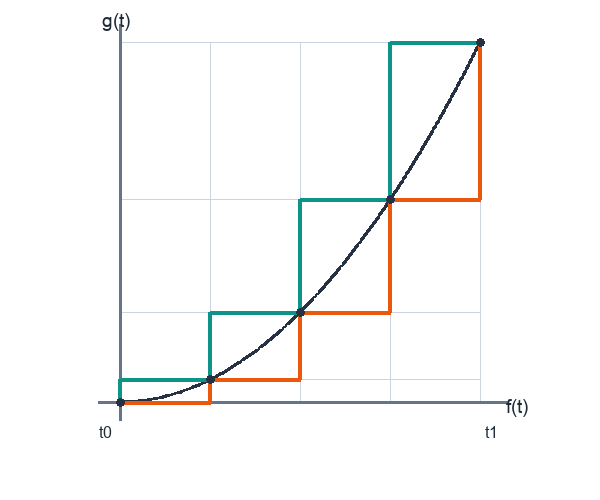
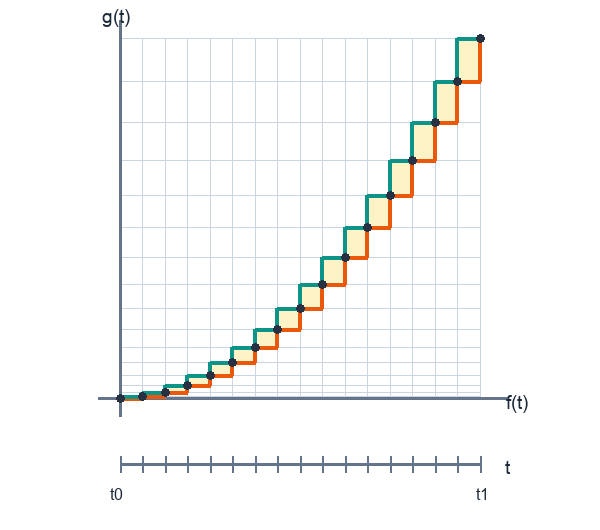
Clarify substitution and integration-by-parts subdivisions

diff --git a/scripts/generate_integration_by_parts_animation.py b/scripts/generate_integration_by_parts_animation.py
@@ -1,12 +1,12 @@
 #!/usr/bin/env python3
 """Render paired finite subdivisions for integration by parts.
 
-The parameter interval is the fixed rational interval [t0, t1].  The display
-uses an affine f and a quadratic g: equal divisions of t give equal f-steps
-and unequal g-steps.  The orange horizontal-first and teal vertical-first
-staircases are the two endpoint zigzags through the same samples
-(f(t_i), g(t_i)).  They meet at every sample as the common parameter
-subdivision is refined.  Every displayed sample is rational.
+The parameter interval is the fixed rational interval [t0, t1].  An affine
+f and a quadratic g make the common equal t-subdivision visible as equal
+f(t)-steps and unequal g(t)-steps.  The orange horizontal-first and teal
+vertical-first staircases pass through precisely the same samples
+(f(t_i), g(t_i)).  Their pale corner rectangles shrink under refinement;
+every displayed datum is rational.
 """
 
 from __future__ import annotations
@@ -22,11 +22,12 @@ ASSET_DIR = ROOT / "blueprint" / "src" / "assets"
 GIF_PATH = ASSET_DIR / "integration-by-parts-cell.gif"
 PNG_PATH = ASSET_DIR / "integration-by-parts-cell.png"
 
-WIDTH, HEIGHT = 600, 500
+WIDTH, HEIGHT = 600, 530
 # Both displayed coordinate ranges are [0, 1], so the f and g units are
 # square.  The nonuniformity in the picture comes only from g(t)=t^2.
 LEFT, RIGHT = 120, 480
-TOP, BASELINE = 42, 402
+TOP, BASELINE = 38, 398
+PARAMETER_LINE = 464
 WHITE = (255, 255, 255, 255)
 INK = (28, 41, 56, 255)
 AXIS = (100, 116, 139, 255)
@@ -34,6 +35,7 @@ GRID = (203, 213, 225, 255)
 CURVE = (38, 50, 68, 255)
 ORANGE = (234, 88, 12, 255)
 TEAL = (13, 148, 136, 255)
+CORNER = (254, 243, 199, 255)
 
 
 def font(size: int) -> ImageFont.FreeTypeFont | ImageFont.ImageFont:
@@ -97,8 +99,8 @@ def frame(subdivisions: int) -> Image.Image:
     f_values = [f(t) for t in parameters]
     g_values = [g(t) for t in parameters]
 
-    # Equal f-divisions are vertical; their g-images are intentionally uneven
-    # horizontal levels.  Neither is decorative: both come from the same t_i.
+    # Equal f(t)-divisions are vertical; their g(t)-images are intentionally
+    # uneven horizontal levels.  Both are the image of the same equal t_i mesh.
     for value in f_values:
         x = x_screen(value)
         draw.line((x, TOP, x, BASELINE), fill=GRID, width=1)
@@ -109,11 +111,31 @@ def frame(subdivisions: int) -> Image.Image:
     draw.line((LEFT - 22, BASELINE, RIGHT + 28, BASELINE), fill=AXIS, width=3)
     draw.line((LEFT, BASELINE + 18, LEFT, TOP - 18), fill=AXIS, width=3)
 
+    # This ruler is the source subdivision.  The plot itself is in the
+    # (f(t), g(t)) plane, so t is deliberately shown as a separate fixed
+    # interval rather than mislabeled as a coordinate axis.
+    draw.line((LEFT, PARAMETER_LINE, RIGHT, PARAMETER_LINE), fill=AXIS, width=3)
+    for t in parameters:
+        x = x_screen(normalized_parameter(t))
+        draw.line((x, PARAMETER_LINE - 8, x, PARAMETER_LINE + 8), fill=AXIS, width=2)
+
     curve = []
     for index in range(241):
         t = T0 + Fraction(index, 240) * (T1 - T0)
         curve.append((x_screen(f(t)), y_screen(g(t))))
     draw.line(curve, fill=CURVE, width=3, joint="curve")
+
+    # The rectangle between a horizontal-first and vertical-first step is the
+    # finite corner discrepancy.  It becomes small because both subdivisions
+    # are driven by the same increasingly fine parameter mesh.
+    for left_f, right_f, left_g, right_g in zip(
+        f_values, f_values[1:], g_values, g_values[1:]
+    ):
+        draw.rectangle(
+            (x_screen(left_f), y_screen(right_g),
+             x_screen(right_f), y_screen(left_g)),
+            fill=CORNER,
+        )
 
     lower = [(x_screen(f_values[0]), y_screen(g_values[0]))]
     upper = [(x_screen(f_values[0]), y_screen(g_values[0]))]
@@ -134,8 +156,9 @@ def frame(subdivisions: int) -> Image.Image:
         x, y = x_screen(fv), y_screen(gv)
         draw.ellipse((x - 4, y - 4, x + 4, y + 4), fill=CURVE)
 
-    draw.text((LEFT - 14, BASELINE + 30), "t0", font=SMALL, fill=INK, anchor="mm")
-    draw.text((RIGHT + 12, BASELINE + 30), "t1", font=SMALL, fill=INK, anchor="mm")
+    draw.text((LEFT - 3, PARAMETER_LINE + 30), "t0", font=SMALL, fill=INK, anchor="mm")
+    draw.text((RIGHT + 3, PARAMETER_LINE + 30), "t1", font=SMALL, fill=INK, anchor="mm")
+    draw.text((RIGHT + 25, PARAMETER_LINE + 3), "t", font=LABEL, fill=INK, anchor="lm")
     draw.text((RIGHT + 26, BASELINE + 4), "f(t)", font=LABEL, fill=INK, anchor="lm")
     draw.text((LEFT - 4, TOP - 22), "g(t)", font=LABEL, fill=INK, anchor="mm")
     return image
@@ -143,14 +166,14 @@ def frame(subdivisions: int) -> Image.Image:
 
 def main() -> None:
     ASSET_DIR.mkdir(parents=True, exist_ok=True)
-    frames = [frame(subdivisions) for subdivisions in (1, 2, 4, 8)]
-    frames[2].save(PNG_PATH, format="PNG", optimize=True)
+    frames = [frame(subdivisions) for subdivisions in (1, 2, 4, 8, 16)]
+    frames[-1].save(PNG_PATH, format="PNG", optimize=True)
     frames[0].save(
         GIF_PATH,
         format="GIF",
         save_all=True,
         append_images=frames[1:],
-        duration=[1200, 1200, 1200, 1900],
+        duration=[1050, 1050, 1050, 1050, 1900],
         loop=0,
         disposal=2,
         optimize=True,

diff --git a/blueprint/src/03-integrals.tex b/blueprint/src/03-integrals.tex
@@ -230,30 +230,28 @@ general change-of-variables axiom.
 \leanok
 Fix \([t_0,t_1]\), set
 \(t_i=t_0+i(t_1-t_0)/2^n\), and sample \(f(t_i)\), \(g(t_i)\).
-The finite identity is about this one equal parameter subdivision.  The
-picture chooses an affine \(f\) and a quadratic \(g\), so its vertical
-\(f\)-division is equal while its horizontal \(g\)-division is unequal:
+The two finite sums use this same equal subdivision.  In the picture, affine
+\(f\) gives equal horizontal divisions while quadratic \(g\) gives unequal
+vertical divisions:
 \begin{verbatim}
 def parts_stage(f, g, t0, t1, n):
     T = uniform_partition(t0, t1, 2**n)
-    F = [f(t) for t in T]
-    G = [g(t) for t in T]
-    return zigzag_horizontal_first(F, G), zigzag_vertical_first(F, G)
+    S = [(f(t), g(t)) for t in T]
+    return horizontal_then_vertical(S), vertical_then_horizontal(S)
 \end{verbatim}
 \begin{figure}[!htbp]
 \centering
 \integrationByPartsAnimation
-\caption{One equal subdivision of \([t_0,t_1]\): equal \(f\)-steps,
-unequal \(g\)-steps, and paired zigzags through the same samples.}
+\caption{A common equal subdivision of \([t_0,t_1]\): paired zigzags through
+the same \((f(t_i),g(t_i))\), with their corner discrepancy shrinking.}
 \label{fig:integration-by-parts-cell}
 \end{figure}
-Writing \(f_i=f(t_i)\) and \(g_i=g(t_i)\), the checked finite identity is
+The checked finite identity is
 \[
- \sum_i f_i(g_{i+1}-g_i)+
- \sum_i g_{i+1}(f_{i+1}-f_i)=f_ng_n-f_0g_0.
+ \sum_i f(t_i)\bigl(g(t_{i+1})-g(t_i)\bigr)+
+ \sum_i g(t_{i+1})\bigl(f(t_{i+1})-f(t_i)\bigr)
+ =f(t_1)g(t_1)-f(t_0)g(t_0).
 \]
-The two zigzags meet at every sampled point; their corner rectangles are the
-explicit rational error budget when a common refinement is required.
 \end{theorem}
 
 \begin{theorem}[Product rule for the rectangle arctangent]
@@ -288,7 +286,7 @@ The same candidate is checked for signed rational steps on \([0,1]\).
 \uses{thm:finite-geometric-integration-by-parts,def:definite-integral-identity}
 For rational monotone pieces, provide:
 \begin{verbatim}
-piece: integral(U*V'), integral(U'*V), product(U,V)
+piece: integral(f*g'), integral(f'*g), product(f,g)
 piece: directions, common_refinement, increment_moduli
 stage: rational error budget for boxes + quadrature + corners
 \end{verbatim}
@@ -301,12 +299,13 @@ integration-by-parts theorem.
 \uses{def:integration-by-parts-certificate}
 The target is
 \[
- \int_a^b U V'\,\dd x\ \Equiv\ U(b)V(b)-U(a)V(a)-\int_a^b U'V\,\dd x.
+ \int_{t_0}^{t_1} f(t)g'(t)\,\dd t\ \Equiv\
+ f(t_1)g(t_1)-f(t_0)g(t_0)-\int_{t_0}^{t_1} f'(t)g(t)\,\dd t.
 \]
 On an increasing piece the finite corner error is bounded by
 \[
- 0\le\sum_I\Delta_IU\,\Delta_IV
- \le\max_I\Delta_IU\,\bigl(V(b_{j+1})-V(b_j)\bigr).
+ 0\le\sum_i\Delta_i f\,\Delta_i g
+ \le\max_i\Delta_i f\,\bigl(g(t_1)-g(t_0)\bigr).
 \]
 \end{theorem}
 

diff --git a/blueprint/src/web-macros.tex b/blueprint/src/web-macros.tex
@@ -5,8 +5,8 @@
   urlcolor=blue
 }
 
-% Four-loop GIF: 1, 2, 4, and 8 equal vertical subdivisions.  The static PDF
-% macro deliberately selects the corresponding final PNG frame instead.
+% Web macros use the looping GIF; the print macros deliberately select each
+% corresponding final PNG frame instead.
 \newcommand{\rationalCircleSubdivisionAnimation}{%
   \includegraphics[width=460pt]{assets/rational-circle-subdivision.gif}%
 }
